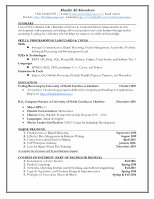
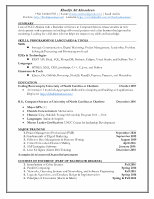
update resume

Changed region(s): [[0.1039, 0.6332, 0.8831, 0.9045]]

diff --git a/KhadijaAliResume/1.html b/KhadijaAliResume/1.html
@@ -78,38 +78,42 @@
 #t1e_1{left:165px;bottom:449px;letter-spacing:0.13px;}
 #t1f_1{left:388px;bottom:449px;letter-spacing:0.15px;}
 #t1g_1{left:110px;bottom:408px;letter-spacing:0.3px;word-spacing:-0.23px;}
-#t1h_1{left:143px;bottom:387px;letter-spacing:0.18px;}
-#t1i_1{left:165px;bottom:387px;letter-spacing:0.14px;word-spacing:-0.07px;}
-#t1j_1{left:704px;bottom:387px;letter-spacing:0.14px;}
-#t1k_1{left:143px;bottom:367px;letter-spacing:0.14px;}
-#t1l_1{left:165px;bottom:367px;letter-spacing:0.14px;word-spacing:-0.04px;}
-#t1m_1{left:732px;bottom:367px;letter-spacing:0.17px;word-spacing:-0.01px;}
-#t1n_1{left:143px;bottom:346px;letter-spacing:0.14px;}
-#t1o_1{left:165px;bottom:346px;letter-spacing:0.14px;word-spacing:-0.01px;}
-#t1p_1{left:745px;bottom:346px;letter-spacing:0.14px;}
-#t1q_1{left:143px;bottom:325px;letter-spacing:0.14px;}
-#t1r_1{left:165px;bottom:325px;letter-spacing:0.14px;}
-#t1s_1{left:722px;bottom:325px;letter-spacing:0.15px;word-spacing:-0.01px;}
-#t1t_1{left:143px;bottom:305px;letter-spacing:0.14px;}
-#t1u_1{left:165px;bottom:305px;letter-spacing:0.13px;}
-#t1v_1{left:704px;bottom:305px;letter-spacing:0.16px;}
-#t1w_1{left:108px;bottom:279px;letter-spacing:0.04px;word-spacing:0.01px;}
-#t1x_1{left:110px;bottom:237px;letter-spacing:0.2px;}
-#t1y_1{left:143px;bottom:217px;letter-spacing:0.18px;}
-#t1z_1{left:165px;bottom:217px;letter-spacing:0.13px;word-spacing:-0.01px;}
-#t20_1{left:755px;bottom:217px;letter-spacing:0.13px;word-spacing:-0.01px;}
-#t21_1{left:143px;bottom:196px;letter-spacing:0.14px;}
-#t22_1{left:165px;bottom:196px;letter-spacing:0.15px;word-spacing:-0.01px;}
-#t23_1{left:736px;bottom:196px;letter-spacing:0.13px;}
-#t24_1{left:143px;bottom:175px;letter-spacing:0.14px;}
-#t25_1{left:165px;bottom:175px;letter-spacing:0.14px;word-spacing:0.04px;}
-#t26_1{left:755px;bottom:175px;letter-spacing:0.13px;word-spacing:-0.01px;}
-#t27_1{left:143px;bottom:155px;letter-spacing:0.14px;}
-#t28_1{left:165px;bottom:155px;letter-spacing:0.15px;word-spacing:-0.03px;}
-#t29_1{left:736px;bottom:155px;letter-spacing:0.13px;}
-#t2a_1{left:143px;bottom:134px;letter-spacing:0.14px;}
-#t2b_1{left:165px;bottom:134px;letter-spacing:0.14px;}
-#t2c_1{left:681px;bottom:134px;letter-spacing:0.13px;word-spacing:0.02px;}
+#t1h_1{left:143px;bottom:387px;letter-spacing:0.11px;}
+#t1i_1{left:159px;bottom:387px;letter-spacing:0.13px;word-spacing:0.01px;}
+#t1j_1{left:403px;bottom:387px;letter-spacing:0.09px;}
+#t1k_1{left:702px;bottom:387px;letter-spacing:0.14px;word-spacing:0.02px;}
+#t1l_1{left:143px;bottom:367px;letter-spacing:0.14px;}
+#t1m_1{left:161px;bottom:367px;letter-spacing:0.14px;}
+#t1n_1{left:704px;bottom:367px;letter-spacing:0.15px;word-spacing:0.01px;}
+#t1o_1{left:143px;bottom:346px;letter-spacing:0.14px;}
+#t1p_1{left:165px;bottom:346px;letter-spacing:0.14px;word-spacing:-0.04px;}
+#t1q_1{left:732px;bottom:346px;letter-spacing:0.17px;word-spacing:-0.01px;}
+#t1r_1{left:143px;bottom:325px;letter-spacing:0.14px;}
+#t1s_1{left:165px;bottom:325px;letter-spacing:0.14px;word-spacing:-0.01px;}
+#t1t_1{left:745px;bottom:325px;letter-spacing:0.14px;}
+#t1u_1{left:143px;bottom:305px;letter-spacing:0.14px;}
+#t1v_1{left:165px;bottom:305px;letter-spacing:0.14px;}
+#t1w_1{left:722px;bottom:305px;letter-spacing:0.15px;word-spacing:-0.01px;}
+#t1x_1{left:143px;bottom:284px;letter-spacing:0.14px;}
+#t1y_1{left:165px;bottom:284px;letter-spacing:0.13px;}
+#t1z_1{left:704px;bottom:284px;letter-spacing:0.16px;}
+#t20_1{left:108px;bottom:258px;letter-spacing:0.04px;word-spacing:0.02px;}
+#t21_1{left:110px;bottom:217px;letter-spacing:0.2px;}
+#t22_1{left:143px;bottom:196px;letter-spacing:0.18px;}
+#t23_1{left:165px;bottom:196px;letter-spacing:0.13px;word-spacing:-0.01px;}
+#t24_1{left:755px;bottom:196px;letter-spacing:0.13px;word-spacing:-0.01px;}
+#t25_1{left:143px;bottom:175px;letter-spacing:0.14px;}
+#t26_1{left:165px;bottom:175px;letter-spacing:0.15px;word-spacing:-0.01px;}
+#t27_1{left:736px;bottom:175px;letter-spacing:0.13px;}
+#t28_1{left:143px;bottom:155px;letter-spacing:0.14px;}
+#t29_1{left:165px;bottom:155px;letter-spacing:0.14px;word-spacing:0.04px;}
+#t2a_1{left:755px;bottom:155px;letter-spacing:0.13px;word-spacing:-0.01px;}
+#t2b_1{left:143px;bottom:134px;letter-spacing:0.14px;}
+#t2c_1{left:165px;bottom:134px;letter-spacing:0.15px;word-spacing:-0.03px;}
+#t2d_1{left:736px;bottom:134px;letter-spacing:0.13px;}
+#t2e_1{left:143px;bottom:113px;letter-spacing:0.14px;}
+#t2f_1{left:165px;bottom:113px;letter-spacing:0.14px;}
+#t2g_1{left:681px;bottom:113px;letter-spacing:0.13px;word-spacing:0.02px;}
 
 .s1_1{font-size:23px;font-family:Garamond-Bold_5p;color:#000;}
 .s2_1{font-size:18px;font-family:Garamond_5r;color:#000;}
@@ -209,38 +213,42 @@
 <div id="t1e_1" class="t s5_1">Master Leader Certification: </div>
 <div id="t1f_1" class="t s2_1">UNCC Center for leadership Development </div>
 <div id="t1g_1" class="t s5_1">MAJOR TRAINING </div>
-<div id="t1h_1" class="t s5_1">1.</div>
-<div id="t1i_1" class="t s2_1">Fundamentals of Digital Marketing </div>
-<div id="t1j_1" class="t s5_1">September 2019 </div>
-<div id="t1k_1" class="t s5_1">2.</div>
-<div id="t1l_1" class="t s2_1">Effective Data Management &amp; Business Writing </div>
-<div id="t1m_1" class="t s5_1">August 2019</div>
-<div id="t1n_1" class="t s5_1">3.</div>
-<div id="t1o_1" class="t s2_1">Critical Innovation Decision Making </div>
-<div id="t1p_1" class="t s5_1">April 2016</div>
-<div id="t1q_1" class="t s5_1">4.</div>
-<div id="t1r_1" class="t s2_1">SAP Enterprise Software </div>
-<div id="t1s_1" class="t s5_1">January 2016</div>
-<div id="t1t_1" class="t s5_1">5.</div>
-<div id="t1u_1" class="t s2_1">Lean Six Sigma (Green Belt Training) </div>
-<div id="t1v_1" class="t s5_1">December 2015</div>
-<div id="t1w_1" class="t m0_1 s9_1">A complete list of courses will be provided upon request </div>
-<div id="t1x_1" class="t s5_1">COURSES OF INTEREST (PART OF BACHELOR DEGREE) </div>
-<div id="t1y_1" class="t s5_1">1.</div>
-<div id="t1z_1" class="t s2_1">Introduction to Cyber Security </div>
-<div id="t20_1" class="t s5_1">Fall 2016 </div>
-<div id="t21_1" class="t s5_1">2.</div>
-<div id="t22_1" class="t s2_1">Parallel Computing</div>
-<div id="t23_1" class="t s5_1">Spring 2016 </div>
-<div id="t24_1" class="t s5_1">3.</div>
-<div id="t25_1" class="t s2_1">Networks, Operating Systems and Networking, and Software Engineering</div>
-<div id="t26_1" class="t s5_1">Fall 2015 </div>
-<div id="t27_1" class="t s5_1">4.</div>
-<div id="t28_1" class="t s2_1">Logic &amp; Algorithms, and Database Design &amp; Implementation </div>
-<div id="t29_1" class="t s5_1">Spring 2014 </div>
-<div id="t2a_1" class="t s5_1">5.</div>
-<div id="t2b_1" class="t s2_1">Principles of Economics (Macro &amp; Micro) </div>
-<div id="t2c_1" class="t s5_1">Spring &amp; Fall 2014 </div>
+<div id="t1h_1" class="t s5_1">1. </div>
+<div id="t1i_1" class="t s2_1">Project Management Professional</div>
+<div id="t1j_1" class="t s2_1">(PMP) </div>
+<div id="t1k_1" class="t s5_1">September 2020</div>
+<div id="t1l_1" class="t s5_1">2.</div>
+<div id="t1m_1" class="t s2_1">Fundamentals of Digital Marketing </div>
+<div id="t1n_1" class="t s5_1">September 2019</div>
+<div id="t1o_1" class="t s5_1">3.</div>
+<div id="t1p_1" class="t s2_1">Effective Data Management &amp; Business Writing </div>
+<div id="t1q_1" class="t s5_1">August 2019</div>
+<div id="t1r_1" class="t s5_1">4.</div>
+<div id="t1s_1" class="t s2_1">Critical Innovation Decision Making </div>
+<div id="t1t_1" class="t s5_1">April 2016</div>
+<div id="t1u_1" class="t s5_1">5.</div>
+<div id="t1v_1" class="t s2_1">SAP Enterprise Software </div>
+<div id="t1w_1" class="t s5_1">January 2016</div>
+<div id="t1x_1" class="t s5_1">6.</div>
+<div id="t1y_1" class="t s2_1">Lean Six Sigma (Green Belt Training) </div>
+<div id="t1z_1" class="t s5_1">December 2015</div>
+<div id="t20_1" class="t m0_1 s9_1">A complete list of courses will be provided upon request </div>
+<div id="t21_1" class="t s5_1">COURSES OF INTEREST (PART OF BACHELOR DEGREE) </div>
+<div id="t22_1" class="t s5_1">1.</div>
+<div id="t23_1" class="t s2_1">Introduction to Cyber Security </div>
+<div id="t24_1" class="t s5_1">Fall 2016 </div>
+<div id="t25_1" class="t s5_1">2.</div>
+<div id="t26_1" class="t s2_1">Parallel Computing</div>
+<div id="t27_1" class="t s5_1">Spring 2016 </div>
+<div id="t28_1" class="t s5_1">3.</div>
+<div id="t29_1" class="t s2_1">Networks, Operating Systems and Networking, and Software Engineering</div>
+<div id="t2a_1" class="t s5_1">Fall 2015 </div>
+<div id="t2b_1" class="t s5_1">4.</div>
+<div id="t2c_1" class="t s2_1">Logic &amp; Algorithms, and Database Design &amp; Implementation </div>
+<div id="t2d_1" class="t s5_1">Spring 2014 </div>
+<div id="t2e_1" class="t s5_1">5.</div>
+<div id="t2f_1" class="t s2_1">Principles of Economics (Macro &amp; Micro) </div>
+<div id="t2g_1" class="t s5_1">Spring &amp; Fall 2014 </div>
 
 <!-- End text definitions -->
 

diff --git a/KhadijaAliResume/2.html b/KhadijaAliResume/2.html
@@ -48,7 +48,7 @@
 #tk_2{left:213px;bottom:869px;letter-spacing:0.13px;word-spacing:0.01px;}
 #tl_2{left:213px;bottom:846px;letter-spacing:0.13px;}
 #tm_2{left:186px;bottom:819px;}
-#tn_2{left:213px;bottom:819px;letter-spacing:0.14px;word-spacing:-0.02px;}
+#tn_2{left:213px;bottom:819px;letter-spacing:0.14px;word-spacing:-0.03px;}
 #to_2{left:213px;bottom:796px;letter-spacing:0.14px;word-spacing:-0.04px;}
 #tp_2{left:213px;bottom:772px;letter-spacing:0.15px;word-spacing:0.02px;}
 #tq_2{left:155px;bottom:748px;letter-spacing:0.16px;}
@@ -60,7 +60,7 @@
 #tw_2{left:704px;bottom:651px;letter-spacing:0.15px;}
 #tx_2{left:131px;bottom:630px;}
 #ty_2{left:158px;bottom:630px;letter-spacing:0.13px;word-spacing:-0.01px;}
-#tz_2{left:158px;bottom:606px;letter-spacing:0.13px;}
+#tz_2{left:158px;bottom:606px;letter-spacing:0.14px;}
 #t10_2{left:158px;bottom:582px;letter-spacing:0.14px;word-spacing:-0.01px;}
 #t11_2{left:155px;bottom:559px;letter-spacing:0.13px;}
 #t12_2{left:186px;bottom:532px;}

diff --git a/KhadijaAliResume/config.js b/KhadijaAliResume/config.js
@@ -1,1 +1,1 @@
-IDRViewer.config = {"pagecount":3,"title":"","author":"Almiskeen, Ali","subject":"","keywords":"","creator":"Microsoft® Word 2016","producer":"Microsoft® Word 2016","creationdate":"D:20200912055733-04'00'","moddate":"D:20200912055733-04'00'","trapped":"","fileName":"Khadija_Ali_Almaskeen's_resume.pdf","bounds":[[935,1210],[935,1210],[935,1210]],"bookmarks":[],"thumbnailType":"jpg","pageType":"html","pageLabels":[]};
+IDRViewer.config = {"pagecount":3,"title":"","author":"Almiskeen, Ali","subject":"","keywords":"","creator":"Microsoft® Word 2016","producer":"Microsoft® Word 2016","creationdate":"D:20200917151725-04'00'","moddate":"D:20200917151725-04'00'","trapped":"","fileName":"Khadija_Ali_Almaskeen's_resume.pdf","bounds":[[935,1210],[935,1210],[935,1210]],"bookmarks":[],"thumbnailType":"jpg","pageType":"html","pageLabels":[]};

diff --git a/KhadijaAliResume/3.html b/KhadijaAliResume/3.html
@@ -54,7 +54,7 @@
 #tq_3{left:165px;bottom:835px;letter-spacing:0.13px;}
 #tr_3{left:652px;bottom:835px;letter-spacing:0.13px;word-spacing:0.01px;}
 #ts_3{left:162px;bottom:814px;letter-spacing:0.14px;word-spacing:0.01px;}
-#tt_3{left:336px;bottom:814px;letter-spacing:0.14px;word-spacing:-0.03px;}
+#tt_3{left:336px;bottom:814px;letter-spacing:0.14px;word-spacing:-0.04px;}
 #tu_3{left:165px;bottom:794px;letter-spacing:0.13px;}
 #tv_3{left:165px;bottom:773px;letter-spacing:0.14px;word-spacing:-0.02px;}
 
